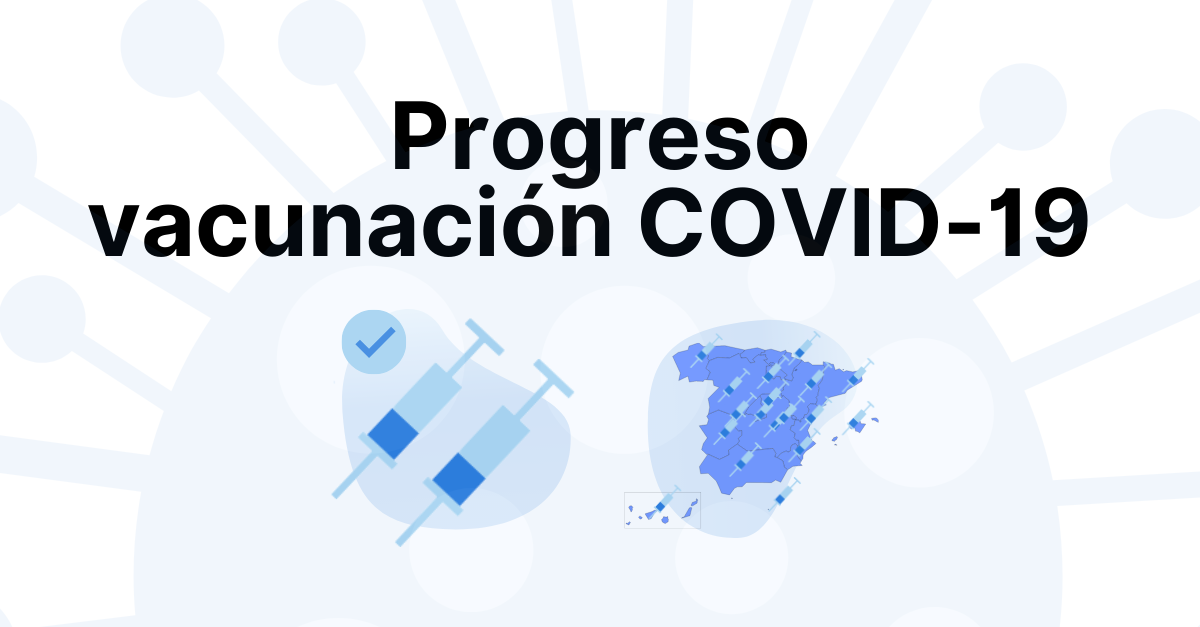
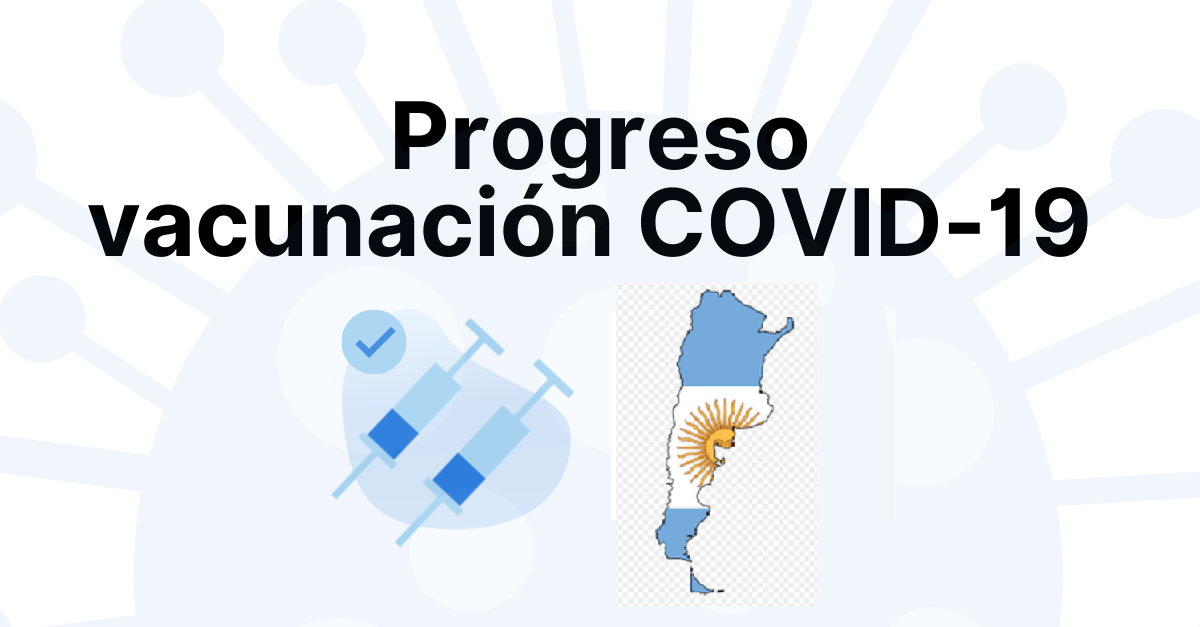
editando

Changed region(s): [[0.5242, 0.4545, 0.74, 0.9394], [0.5858, 0.9394, 0.6167, 0.9697]]

diff --git a/pages/como-incrustar.js b/pages/como-incrustar.js
@@ -34,7 +34,7 @@ export default function EjemploEmbed () {
 
         <h2>Copia este código</h2>
         <textarea
-          onChange={() => {}} onFocus={handleFocus} autoComplete='off' autoCapitalize='none' value='&lt;div style=&quot;position: relative; padding-bottom: 56.25%;&quot;&gt; &lt;iframe width=&quot;800&quot; height=&quot;450&quot; src=&quot;https://localhost:3000/embed&quot; frameborder=&quot;0&quot; style=&quot;position: absolute; top: 0; left: 0; width: 100%; height: 100%;&quot; &gt;&lt;/iframe&gt; &lt;/div&gt;'
+          onChange={() => {}} onFocus={handleFocus} autoComplete='off' autoCapitalize='none' value='&lt;div style=&quot;position: relative; padding-bottom: 56.25%;&quot;&gt; &lt;iframe width=&quot;800&quot; height=&quot;450&quot; src=&quot;https://covid-vacuna-ar.fom78.vercel.app/embed&quot; frameborder=&quot;0&quot; style=&quot;position: absolute; top: 0; left: 0; width: 100%; height: 100%;&quot; &gt;&lt;/iframe&gt; &lt;/div&gt;'
         />
         <h2>Previsualización</h2>
         <p>Así es como quedará el embed en tu página web.</p>
@@ -42,7 +42,7 @@ export default function EjemploEmbed () {
           <iframe
             width='800'
             height='450'
-            src='https://localhost:3000/embed'
+            src='https://covid-vacuna-ar.fom78.vercel.app/embed'
             frameborder='0'
             style={{ position: 'absolute', top: 0, left: 0, width: '100%', height: '100%' }}
           />

diff --git a/components/Share.jsx b/components/Share.jsx
@@ -2,7 +2,7 @@ import styles from 'styles/Share.module.css'
 
 export default function Share () {
   const params = new URLSearchParams({
-    url: 'https://covid-vacuna.app',
+    url: 'https://covid-vacuna-ar.fom78.vercel.app/',
     text:
       '¡Sigue el progreso de la vacunación contra el COVID19 en esta web adaptada por @fom78a para Argentina y creada por @midudev!\n\n'
   })

diff --git a/pages/index.js b/pages/index.js
@@ -38,7 +38,7 @@ export default function Home ({ contributors, data, info, chartDatasets }) {
       <Head>
         <link
           rel='alternate icon'
-          href='https://covid-vacuna.app/vacuna.png'
+          href='https://covid-vacuna-ar.fom78.vercel.app/vacuna.png'
           type='image/png'
         />
         <link rel='manifest' href='/manifest.json' />
